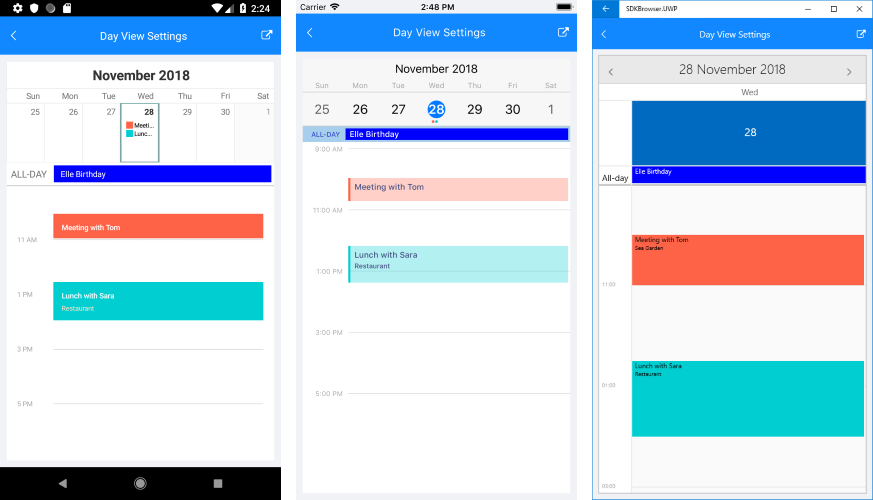
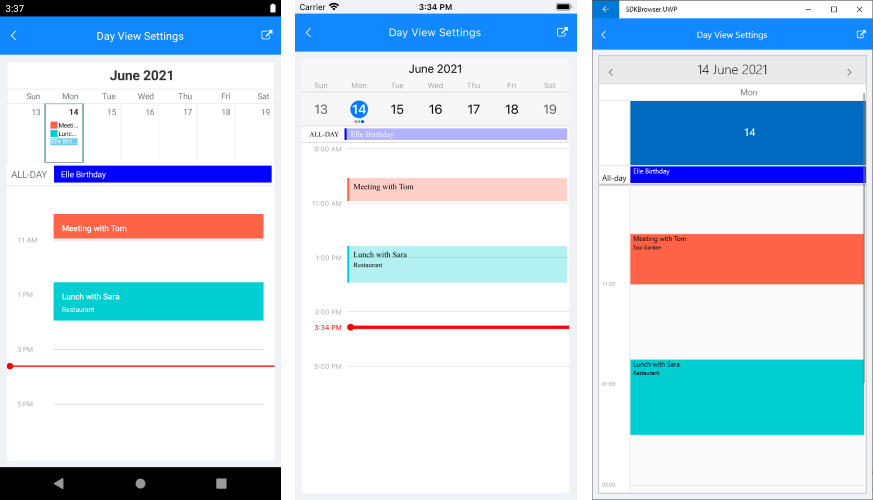
Added info about CurrentTimeIndicator in DayView

diff --git a/controls/calendar/view-modes/calendar-dayview.md b/controls/calendar/view-modes/calendar-dayview.md
@@ -12,7 +12,7 @@ Day ViewMode allows you to display the schedule for a specific day in RadCalenda
 
 Day ViewMode provides a convenient way to display appointments for a certain day. For more details on the Appointments feature of RadCalendar refer to [Appointments]({%slug calendar-appointments%}) topic.
 
->note You can also consider [MultiDay ViewMode]({%slug calendar-multidayview%}) as it gives the option to select how many days to display, provides current time indicator as well as a few other configuration settings.
+>note You can also consider [MultiDay ViewMode]({%slug calendar-multidayview%}) as it gives the option to select how many days to display and provides work week support.
 
 ## Timeline Settings
 
@@ -21,14 +21,25 @@ You can specify the initial and end hours displayed in the DayView through the *
 * **DayStartTime**: Defines the time used to indicate the start of the Calendar timeline. The default value of the DayStartTime is 00:00:00 or 12:00 AM. 
 * **DayEndTime**: Sets the time used to indicate the end of the timeline.
 * **TimelineInterval**: This property is of type *TimeSpan* and defines the time intervals inside the timeline.
+* **IsCurrentTimeIndicatorVisible**: Boolean property that enables the option to visually mark the current time. In addition, you could customize the way the current time indicator looks through a few styling properties, for more details go to [Styling](#styling) section.
 
-Through the DayViewSettings you can also configure [Special and restricted slots]({%slug calendar-specialslots%}) and [Non-working hours]({%slug calendar-nonworking-hours%}) features of RadCalendar.
+> CurrentTimeIndicator for DayView is available only for Android and iOS. For UWP you can use [MultiDay ViewMode]({%slug calendar-multidayview%}) with its **VisibleDays** property set to "1".
+
+>tip Through the DayViewSettings you can also configure [Special and restricted slots]({%slug calendar-specialslots%}) and [Non-working hours]({%slug calendar-nonworking-hours%}) features of RadCalendar.
 
 ## Styling
 
 This section presents the various properties you can use for customizing the visual appearance of different parts of the Day view. All of them are applied through **DayViewStyle** property of RadCalendar. 
+
+#### CurrentTimeIndicator
+
+You can customize the way the current time indicator looks through the styling properties listed below:
+
+* **CurrentTimeIndicatorColor**
+* **CurrentTimeIndicatorWidth**
+* **CurrentTimeIndicatorRadius**: Specifies the radius of the round marker at the beginning of the indicator on Android and iOS.
  
-#### AllDayArea Styling
+#### AllDayArea
 
 DayView provides all-day area at the top of the timeline to display appointments that continue a whole day(s). Following are the styling properties related to AllDay area:
 
@@ -39,7 +50,7 @@ DayView provides all-day area at the top of the timeline to display appointments
 
 >tip In order to create all-day appointments you just need to set **IsAllDay** bool property of the Appointment class. For more details on the Appointments feature of RadCalendar refer to [Appointments]({%slug calendar-appointments%}) topic.
 
-#### Timeline Styling 
+#### Timeline 
 
 Through **DayViewStyle** you could define the background of the timeline as well as different background to the current day, also the background and font-size of appointments inside timeline.  
 
@@ -58,7 +69,9 @@ And here is the result:
 
 ![Calendar DayView Settings](../images/calendar-dayviewsettings.png)
 
->important A DayViewSettings and Style example can be found in the Calendar &amp; Scheduling/Features folder of the [SDK Samples Browser application]({%slug developer-focused-examples%}#sdk-browser-application).
+>important **DayView Settings** example can be found in the Calendar &amp; Scheduling/Features folder of the [SDK Samples Browser application]({%slug developer-focused-examples%}#sdk-browser-application).
+>
+>You can also explore the example code directly in the [SDKBrowser Examples repository on GitHub](https://github.com/telerik/xamarin-forms-sdk/tree/master/XamarinSDK/SDKBrowser/SDKBrowser/Examples/CalendarControl/FeaturesCategory/DayViewSettingsExample).
 
 ## See Also
 

diff --git a/controls/calendar/view-modes/calendar-multidayview.md b/controls/calendar/view-modes/calendar-multidayview.md
@@ -31,7 +31,7 @@ The next image shows MultiDay view with the MultiDayViewSettings applied:
 
 ![Calendar Scheduling Key Features](../images/calendar_scheduling_keysettings.png)
 
-Through the MultiDayViewSettings you can also configure [Special and restricted slots]({%slug calendar-specialslots%}) and [Non-working hours]({%slug calendar-nonworking-hours%}) features of RadCalendar.
+>tip Through the MultiDayViewSettings you can also configure [Special and restricted slots]({%slug calendar-specialslots%}) and [Non-working hours]({%slug calendar-nonworking-hours%}) features of RadCalendar.
 
 ## Work Week Support
 
@@ -43,7 +43,11 @@ This section presents the various properties you can use for customizing the vis
  
 #### CurrentTimeIndicator
 
-You can customize the way the current time indicator looks through the styling properties shown in the example below:
+You can customize the way the current time indicator looks through the styling properties listed below:
+
+* **CurrentTimeIndicatorColor**
+* **CurrentTimeIndicatorWidth**
+* **CurrentTimeIndicatorRadius**: Specifies the radius of the round marker at the beginning of the indicator on Android and iOS.
 
 <snippet id='calendar-scheduling-currenttimeindicator' />
 
